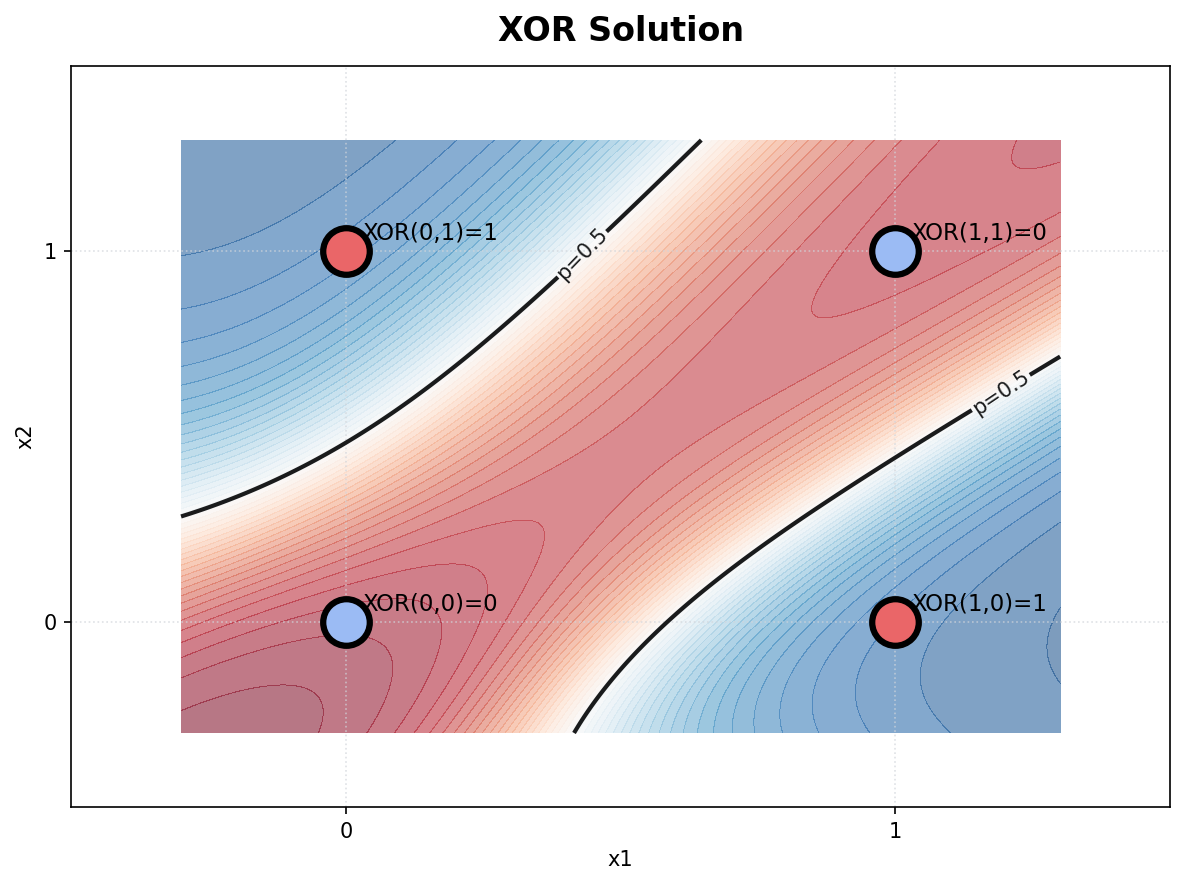
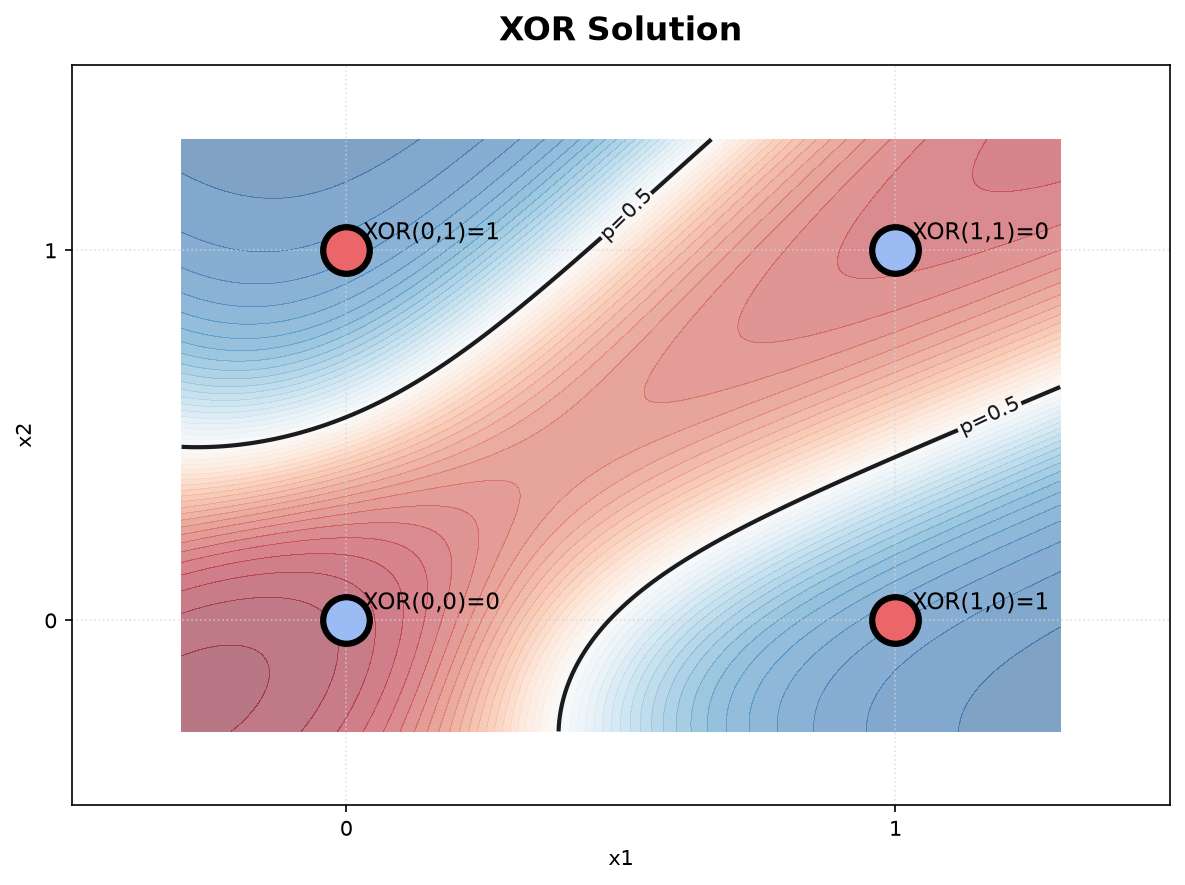
update md

diff --git a/01-backpropagation-from-scratch/README.md b/01-backpropagation-from-scratch/README.md
@@ -1,8 +1,24 @@
-# 反向传播与自动微分
+# 手写反向传播与自动微分
+
+<table>
+  <tr>
+    <td align="center" width="50%">
+      <img src="./assets/xor_problem.png" width="100%" alt="XOR 问题">
+    </td>
+    <td align="center" width="50%">
+      <img src="./assets/xor_solution_py.png" width="100%" alt="XOR 解决办法">
+    </td>
+  </tr>
+  <tr>
+    <td align="center"><b>异或问题</b></td>
+    <td align="center"><b>解决办法</b></td>
+  </tr>
+</table>
+
 
 用纯 Python 手写一个标量自动微分引擎，再用它从零搭建 MLP 解决 XOR 问题；最后给出 PyTorch 对照实现，验证两者训练结果一致。
 
-本模块回答三个问题：计算图怎么建、梯度怎么沿图反向流、非线性层为什么必需。
+本文回答三个问题：计算图怎么建、梯度怎么沿图反向流、非线性层为什么必需。
 
 ## 核心实现
 
@@ -65,6 +81,8 @@ python xor_pytorch.py    # PyTorch 实现，2000 轮，lr=0.1
 依赖：`torch`、`numpy`、`matplotlib`。
 
 图片统一输出到 `assets/`：背景色是模型对网格上每个点的预测概率，两条黑线是 $`p=0.5`$ 的决策边界，四个圆点标注真实标签。
+
+因为随机数原因，不同环境、不同次运行结果可能不同，是正常的；
 
 ## 结果
 
